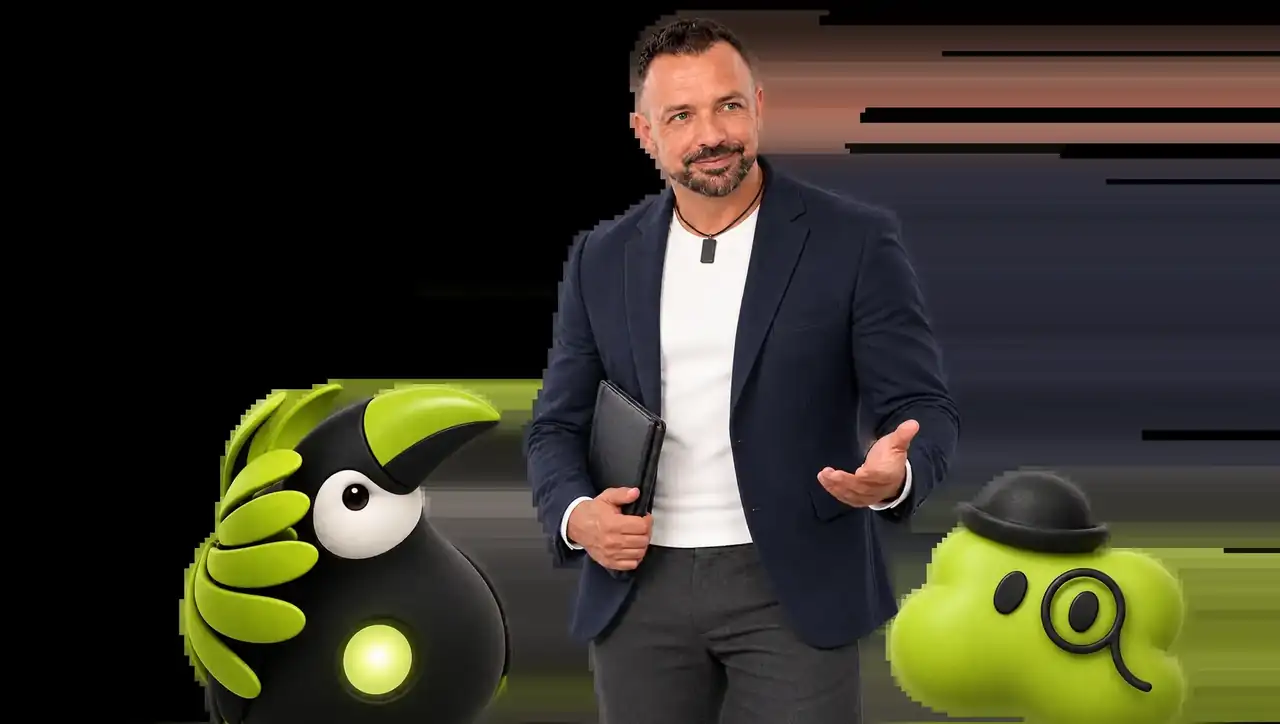
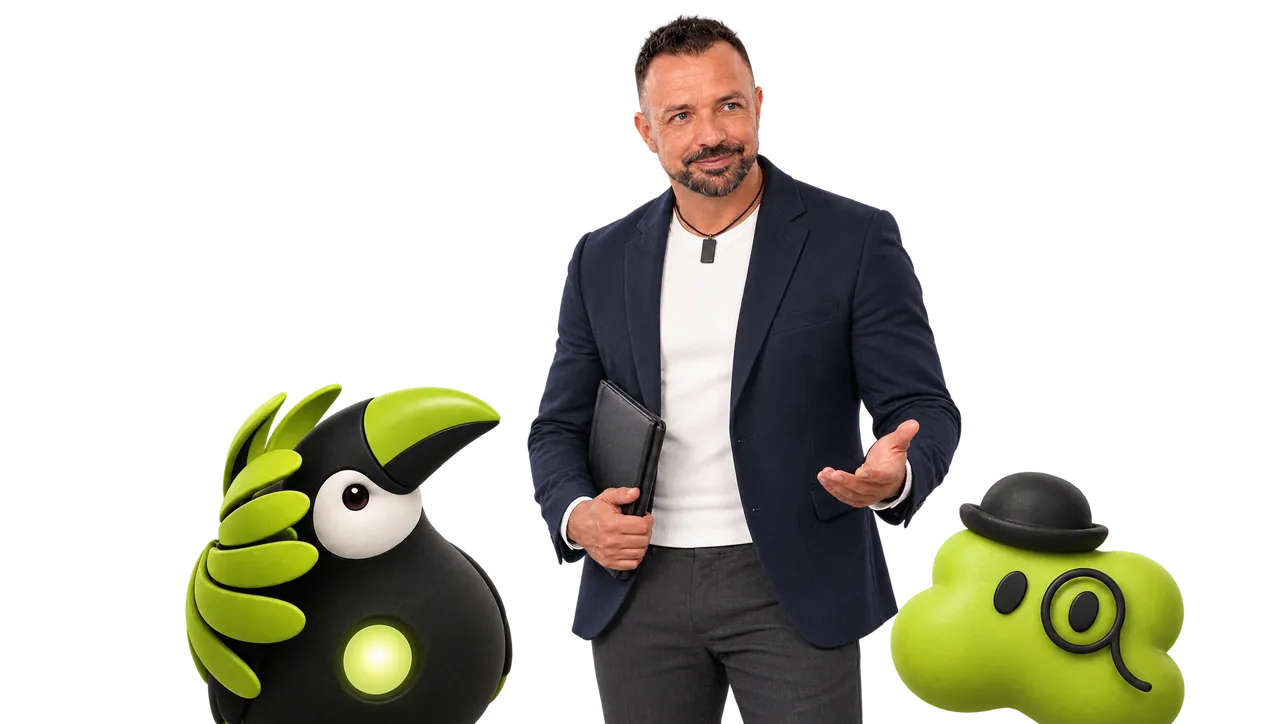
Register OF-09/OF-14, Resend-Befund und Freisteller hf-17 mit Alpha-Kanal (PR 80)
* Auftragsregister OF-14: Merge von PR 76/78 erfolgt, Produktion wartet auf Vercel-Neuverbindung zur neuen GitHub-Organisation

Claude-Session: https://claude.ai/code/session_01HyncR8Em2S7sXGywG7Z7Bh

* Resend: Domain nexifyai.de angelegt (nicht verifiziert), DNS-Zone bei Registrar-Parkservern; Register OF-09

Claude-Session: https://claude.ai/code/session_01HyncR8Em2S7sXGywG7Z7Bh

* fix(media): Freisteller hf-17 mit Alpha-Kanal neu erzeugt

Die Verdichtung in e882959 hat den Alpha-Kanal verworfen (RGBA -> RGB). Auf /portale
erschien der Freisteller mit schwarzem Hintergrund und Streifen aus den unter der
Transparenz liegenden Pixeln. Neu aus dem Original (1699fa4) in 1920/1280/800 px als
WebP mit Alpha: 206/109/49 KB, Alpha-Bereich 0-255. Die 16 Szenenbilder sind deckend
(Alpha 254-255) und bleiben unveraendert.

Claude-Session: https://claude.ai/code/session_01HyncR8Em2S7sXGywG7Z7Bh

---------

diff --git a/docs/09-final/auftragsregister-2026-11-08.md b/docs/09-final/auftragsregister-2026-11-08.md
@@ -39,12 +39,12 @@ Gesamtbeschreibung 08.11.2026, Dauerauftrag „/GOAL“ (Pascal Courbois), `AGEN
 | OF-06 | Cloudflare Workers Builds: Skriptname über 54 Zeichen; Vercel `site-gjp7`: Deployment blockiert | Inhaber / Infra | Projekt bzw. Skript umbenennen, Vercel-Einstellung prüfen |
 | OF-07 | `/api/session` hat in Produktion weder Route noch Rewrite | Backend | Route anlegen oder Orientierungsmodus als Soll festschreiben |
 | OF-08 | Shop-Lücken: Kundenkonto, Partner-Status, Werkstattprofil, Wiederholung fehlgeschlagener BigBuy-Bestellungen, CI mit MongoDB | Backend | Pakete einzeln planen |
-| OF-09 | BigBuy-Produktivzugang, Revolut live/Webhook, Resend-Domain, MongoDB-Zugang | Inhaber | Zugänge liefern; Zahlungen nur je Aktion freigegeben |
+| OF-09 | BigBuy-Produktivzugang, Revolut live/Webhook, Resend-Domain, MongoDB-Zugang | Inhaber | Zugänge liefern; Zahlungen nur je Aktion freigegeben. **Stand 09.11.2026:** Resend-Domain `nexifyai.de` angelegt (nicht verifiziert); DNS-Zone liegt bei den Registrar-Parkservern `ns1/ns2.dns-parking.com`, nicht bei Vercel (Details und die vier Einträge in `config/integrationen.json`, Dienst `resend`) |
 | OF-10 | Landingpages/Stadtseiten und Baukasten-Showcase | Content / Art Direction | Suchbegriffe und Wettbewerb real erheben |
 | OF-11 | Browser-Nachweise (30 Skripte in `apps/site/tests/browser-*.mjs`) und Hash-Pins in `config/acceptance-coverage.json` / Abgleich: 35 Hash-Tests plus ca. 20 Nachweis-Tests rot (Stand 09.11.2026, lokal 42 Failures / 17 Errors). Ursache: Neugestaltung 02.11., D-007 (Clerk entfernt), Commit `5222298`. Zwei Fehlererfassungs-Nachweise sind real neu erhoben (`784ea8a`), alle anderen nicht erneuerbar, weil Selektoren/Dateien nicht mehr existieren | Test-Owner / Pascal Courbois | Skripte auf die neue Oberfläche und `apps/web/components/shop/` umschreiben, dann laufen lassen, dann Nachweis und Hash übernehmen. Pascal entscheidet, ob gelöschte Dateien aus den Registerzeilen entfernt werden. Hashes nie blind überschreiben. **Shop/Katalog (Punkt 3, 09.11.2026):** neue Prüffunktionen und Tests stehen, die Alt-Shop-Prüfer sind stillgelegt, siehe Abschnitt 3a |
 | OF-12 | Sprachwahl im SPA: `nexify-locale` wird in `Workspace.tsx` nur geschrieben, seit `5222298` nicht mehr gelesen; die Sprache kommt serverseitig aus `?lang=` (`proxy.ts`). Ob die Sprache bewusst nicht mehr gemerkt wird, ist nicht entschieden. Ein Lesen im Client würde Server- und Clientsprache auseinanderlaufen lassen (gemischtsprachige Seiten) | Frontend / Pascal Courbois | Produktentscheidung: Sprache per Cookie im Proxy merken oder bewusst nur URL-gesteuert lassen; bis dahin nicht per `localStorage` nachrüsten |
 | OF-13 | PR 76 überschreitet `max_diff_bytes` 64000 (Diff 256075 B). Schnitt in ca. 5 thematische PRs: Web 101591, Config 59255, Tools/Docs 51353, Shop 17875 | Release | Erst nach OF-11 schneiden; Limit nicht anheben. **Messung 09.11.2026:** Diff PR 76 gegen `main` = 1,30 MB; davon `evidence/` 824 KB (5 Dateien einzeln > 64 KB), Code 520 KB in 91 Dateien (Browser-Skripte 179 KB, Config 92 KB, Komponenten 70 KB, Tools 47 KB, Docs 36 KB, Tests 27 KB) ⇒ mindestens 9 Teil-PRs. **Wichtiger:** Im Log des Jobs `review` (PR 78) ist `OPENROUTER_API_KEY` leer – das Modell kann nicht aufgerufen werden; das Gate liefert dann nur `blocked_not_reviewed`. Ein Schnitt allein macht `review` daher nicht grün. Entscheidung Pascal Courbois: entweder das Secret `OPENROUTER_API_KEY` im Repo hinterlegen (Zugangsdaten gehören nicht in Chat/Repo, nur der Inhaber) oder PR 78/76 nach menschlicher Prüfung mit Inhaberrechten mergen |
-| OF-14 | Produktion .de zeigt noch die alte Seite. **Ursache belegt (09.11.2026, lesend über den Vercel-Connector):** Hoster ist Vercel, Team `nexify-projekte`, Projekt `nexify-ai-finales-agentur-gesamtprojekt-09-2026-0c70a665`; `nexifyai.de`, `www.nexifyai.de`, `nexifyai.cloud` hängen daran; Produktions-Deployments kommen nur aus dem Branch `main` (zuletzt Commit `6c4f9ee`, Status READY). Der Qualitätszweig ist nicht in `main`, PR 76 ist ein Entwurf. Rollout = Merge nach `main` (löst Auto-Deploy aus), Rückweg = Vercel „Rollback“ auf das vorherige Deployment. SSH-Zugang und Claude-Browser (Remote Control) nicht eingerichtet | Pascal Courbois (Freigabe) | Merge von PR 76 erst nach OF-11/OF-13 und ausdrücklicher Freigabe; nichts wird ohne Freigabe nach `main` oder in die Produktion gebracht. SSH nur falls nötig: eigener Benutzer ohne Root, private Schlüssel bleiben bei Pascal |
+| OF-14 | Produktion .de zeigt noch die alte Seite. **Ursache belegt (09.11.2026, lesend über den Vercel-Connector):** Hoster ist Vercel, Team `nexify-projekte`, Projekt `nexify-ai-finales-agentur-gesamtprojekt-09-2026-0c70a665`; `nexifyai.de`, `www.nexifyai.de`, `nexifyai.cloud` hängen daran; Produktions-Deployments kommen nur aus dem Branch `main` (zuletzt Commit `6c4f9ee`, Status READY). Der Qualitätszweig ist nicht in `main`, PR 76 ist ein Entwurf. Rollout = Merge nach `main` (löst Auto-Deploy aus), Rückweg = Vercel „Rollback“ auf das vorherige Deployment. SSH-Zugang und Claude-Browser (Remote Control) nicht eingerichtet | Pascal Courbois (Freigabe) | Merge von PR 76 erst nach OF-11/OF-13 und ausdrücklicher Freigabe; nichts wird ohne Freigabe nach `main` oder in die Produktion gebracht. SSH nur falls nötig: eigener Benutzer ohne Root, private Schlüssel bleiben bei Pascal. **Stand 09.11.2026 (Abend):** PR 78 (`5bf6827`) und PR 76 (`0272efe`) sind auf Freigabe des Inhabers („Merge mit Bypass freigegeben“) nach `main` gemergt (Squash). **Produktion NICHT aktualisiert:** Das Vercel-Projekt ist noch mit `nexifyai-dev/…` verbunden; das Repo liegt seit dem Umzug in `nexify-ai-agentur-gesamtprojekt-09-2026`. Seit 08.11. 23:41 UTC baut Vercel nichts mehr aus GitHub. Direkter Deploy per API scheitert unter beiden Org-Namen mit `incorrect_git_source_info` („repository can't be found“) ⇒ die Vercel-GitHub-App hat keinen Zugriff auf die neue Organisation. Live: `/portale` und `/produkte/aifly-oracle` 404, Startseite alter Stand (Deployment `dpl_35Vacwi…`, Commit `6c4f9ee`). **Nur Inhaber:** Vercel-GitHub-App für die Organisation installieren/freigeben und im Projekt unter Settings → Git neu verbinden. Danach: Deployment von `main` auslösen und live prüfen (`/portale`, `/produkte/*`, `/impressum`, `/anmelden`); Rückweg Vercel-Rollback auf `dpl_35Vacwi3rZhskCzYBWfamveJFQK1` |
 
 ## 3a. OF-11 Punkt 3: Prüfer für den neuen Shop, Stilllegung der Alt-Shop-Prüfer (09.11.2026)
 
